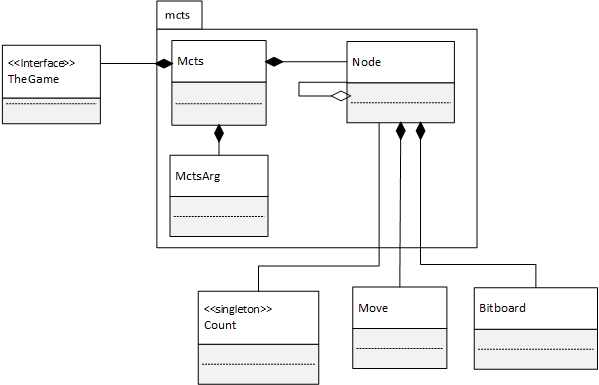
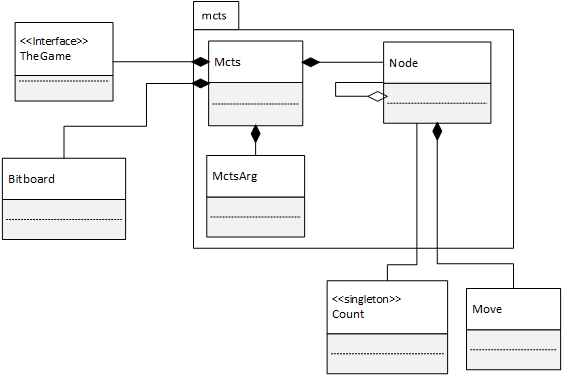
WIP Base Algorithm part

Changed region(s): [[0.0, 0.0, 1.0, 1.0], [0.3025, 0.7333, 0.5445, 1.0]]

diff --git a/Docs/Reports/Report_4/Base_Algorithm/text.tex b/Docs/Reports/Report_4/Base_Algorithm/text.tex
@@ -1,9 +1,32 @@
-\begin{figure}[!h] 
+The base algorithm is a simple implementation of the MCTS algorithm. All the functions related to it are included in the mcts namespace.
+It take as a parameter the abstract class \textit{TheGame}, the position (\textit{Bitboard}) to start the search with and an object (\textit{MctsArg}) to set the parameter to the MCTS algorithm such as the time to search on, the depth of the tree, the number of simulation to run and the number of nodes to create in the tree.
+The following Class Diagram represent the links between the differents kinds of objects.
+\begin{figure}[H] 
+\centerline{\includegraphics[scale=1]{Base_Algorithm/Img/MCTSsimple.png}}
+\caption{\label{fig:MCTSClassDiagram}\textit{Class Diagram of the mcts package}}
+\end{figure}
+The Object Node represent the tree, it is stored as an array in the mcts object. A detailed implementation is provided in the Data Structure part.\\
+The singleton \textit{Count} is used for the statistics (such as the number of leaves, nodes created and the number of simultions run). Whilst providing statistics it also make sure that no  memory leaks are happening, monitoring the creation and destructions of the main objects.\\ 
+The following figure represent the order of the call for the main function while providing some details about the implementation.
+\begin{figure}[H]
 \centerline{\includegraphics[scale=0.70]{Base_Algorithm/Img/Algorithm.png}}
-\caption{\label{fig:MCTSAlgorithm}(\textit{Monte Carlo algorithm}).}
+\caption{\label{fig:MCTSAlgorithm}\textit{Monte Carlo algorithm}}
 \end{figure}
-
-\begin{figure}[!h] 
-\centerline{\includegraphics[scale=0.8]{Base_Algorithm/Img/MCTSsimple.png}}
-\caption{\label{fig:MCTSClassDiagram}(\textit{Class Diagram of the mcts package.}).}
-\end{figure}
+\noindent
+\textit{\textbf{explore}} : start the tree exploration.
+\medskip\\
+\textit{\textbf{UpdateNode}} : make the the node has children and update its terminal value if required.
+\medskip\\
+\textit{\textbf{select\_child\_UCT}} : go through all the children of a node and return the one with the highest result at the UCT function (refer to the \textit{pre-analysis report, part 3.4.4}).
+\medskip\\
+\textit{\textbf{playRandom}} : start to run the random simulations and return the winner/tie.
+\medskip\\
+\textit{\textbf{update}} : update the node statistics and feedback the result to its parents.
+\medskip\\
+\textit{\textbf{forceSetUCT}} : In the event of a winning move, the uct value is set to 10 in order to make sure that each and every further explorations go through that node.
+\medskip\\
+\textit{\textbf{feedbackWinningMove}} : feedback the winning move to its parent, we don't want to go to that position because it would be a winning strategy for the opponent.
+\medskip\\
+\textit{\textbf{updateLosingParent}} : in the event of all the children of the parent being a losing move, update it's UCT value to winning strategy to propagate the results.
+\medskip\\
+\textit{\textbf{select\_child\_WR}} : return the child with the highest win rate.\\

diff --git a/Docs/Reports/Report_4/Data_Structure/text.tex b/Docs/Reports/Report_4/Data_Structure/text.tex
@@ -1,18 +1,23 @@
 Given the size of the data our software will be working on, it requires an efficient way of storing them.
 
 There are 2 kinds of data, on the first hand the parameters and utilities ; on the other hand, the ones the programs works on.
-\subsection{Boards and nodes}
+\subsection{Boards and node}
 Boards are stored as bitboard. As the game is played on a 8x8 board, it is convinient to use a 64 bit integer to store the positions of the pieces.
 That way, each and every of a kind of pieces are stored on the same integer, saving space compared to a matrix 8 x 8.
-Each players owns have rabits, cats, dogs, horses, camel and elephant, using therefore 6 integer for each player do the job. Adding an additionnal bitboard to store the position of every pieces of each players helps to increase the speed of the algorithm by reducing the number of test required to be done during the playout phases.
+Players own rabits, cats, dogs, horses, camel and elephant; thus using 6 integer for each player do the job. Adding an additionnal bitboard to store the position of every pieces of each players helps to increase the speed of the algorithm by reducing the number of test required to be done during the playout phases.
 
-Nodes are stored in an array, thus grouping them on a countinous memory segment. With such a way the speed of accessing them is increased.
-They countains statistics, a pointer to the first of their children and the number of children they own.
+Nodes are stored in an array, thus grouping them on a countinous memory segment. Therefore the time to gain access to them is increased.
+They also countains statistics, a pointer to its parent, a pointer to the first of their children and the number of children they own.
 
 \begin{figure}[!h] 
 \centerline{\includegraphics[scale=0.70]{Data_Structure/Img/array.png}}
-\caption{\label{fig:array}(\textit{Monte Carlo algorithm}).}
+\caption{\label{fig:array}\textit{Prunning of the tree}.}
 \end{figure}
+In order to prune the tree, we use the following method : create a copy of the current tree (\_tree) into a buffer (\_buff).
+The root of the buffer tree will be a copy the chosen node. Then the children are saved following the branches. The advantage of this method is that you only copy the nodes you want to keep.
+However the memory used of the buffer need to be the same as the one of the tree before the prunning. Thus the maximum memory that can be used by the tree (\_tree) is half the memory used by the program.
+In order to dermine the number of leaves to be created, the program check how much memory there is left on the computer and use 90\% of it.
 
+%\ensuremath{\fract{RAM \times 90\%}{2} = Number of leaves}
 
 \subsection{Utilities and parameters}
